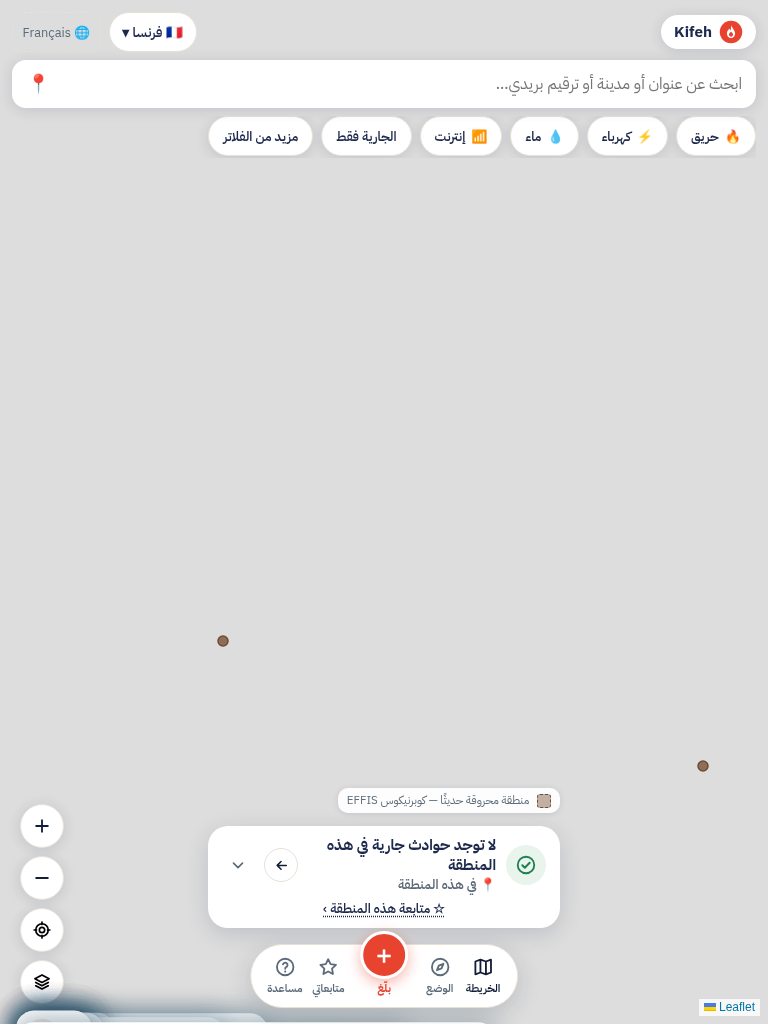
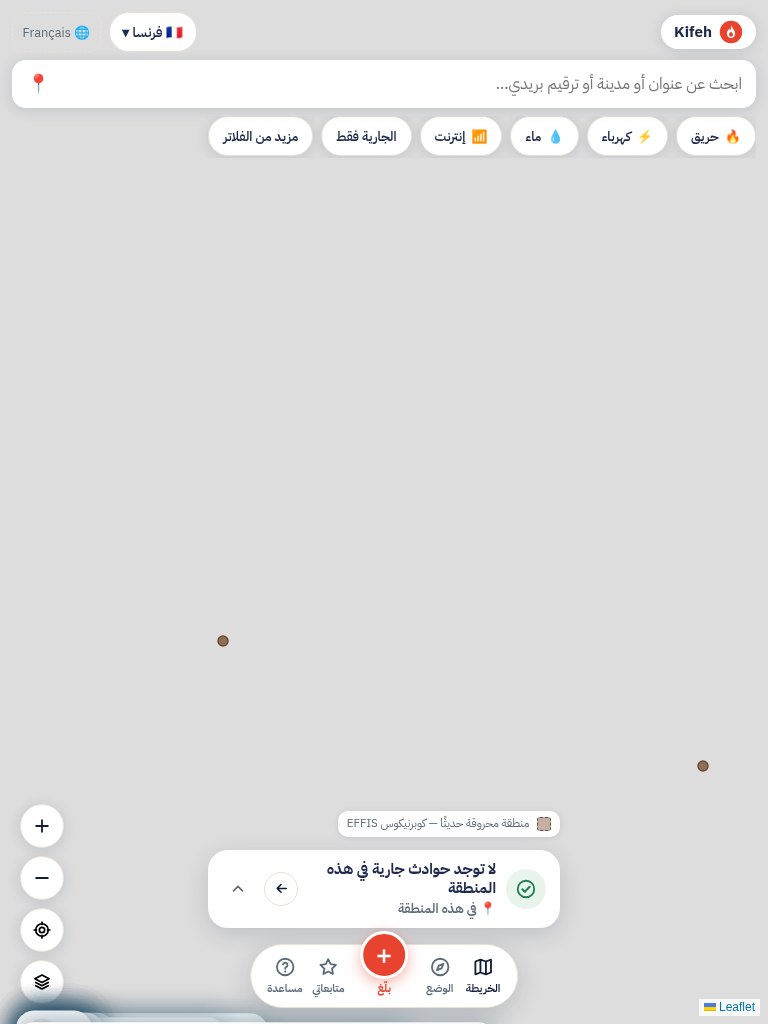
REVERT rail desktop (demande explicite Farah 31/07 soir) — retour à l'interface d'avant PR 2
- fire_desktop_rail_enabled → '0' (défaut + migration 3j à marqueur unique
  pour la valeur semée) : la pilule basse desktop, la recherche pleine
  largeur et la carte de situation reviennent à l'identique.
- Annulation du « défaut intelligent » du héro (non déployé).
- Captures de marque restaurées sur l'interface d'origine.
- Prochaine itération desktop : MAQUETTES validées par Farah AVANT tout
  déploiement.

Claude-Session: https://claude.ai/code/session_01Xtj68HpNxhqV9w3jxL5u9R

Changed region(s): [[0.25, 0.75, 0.75, 0.9062]]

diff --git a/src/config.js b/src/config.js
@@ -194,8 +194,10 @@ export const defaultSettings = {
   // activation progressive après validation UI (master prévisions PR 8).
   fire_forecast_enabled_fr: '1',
   fire_forecast_enabled_tn: '1',
-  // Refonte PR 2 : composition desktop (rail + header compact + héro→bouton).
-  fire_desktop_rail_enabled: '1',
+  // Refonte PR 2 : composition desktop — ÉTEINTE le 31/07 au soir (retour
+  // Farah : « revert, le front est dégueulasse ») ; itération sur maquettes
+  // validées AVANT toute réactivation.
+  fire_desktop_rail_enabled: '0',
   // Vent : modèle Météo-France (AROME/ARPEGE) servi par Open-Meteo — libre,
   // sans clé. Fournisseur configurable (WIND_URL pour les tests/alternatives).
   wind_provider: 'arome_france_hd_openmeteo', // AROME France HD, EXPLICITE (jamais le mode auto),

diff --git a/src/migrations.js b/src/migrations.js
@@ -473,4 +473,13 @@ export function runMigrations(db) {
       WHERE key = 'dfci_public_display_enabled' AND value = '0'`).run();
     db.prepare(`INSERT OR IGNORE INTO settings(key, value) VALUES ('mig_dfci_public_rollout', '1')`).run();
   })();
+
+  // 3j. REVERT rail desktop (31/07 soir, demande explicite de Farah) :
+  // bascule unique du '1' semé quelques heures plus tôt vers '0'.
+  (() => {
+    const done = db.prepare(`SELECT 1 FROM settings WHERE key = 'mig_rail_revert_3107'`).get();
+    if (done) return;
+    db.prepare(`UPDATE settings SET value = '0' WHERE key = 'fire_desktop_rail_enabled' AND value = '1'`).run();
+    db.prepare(`INSERT OR IGNORE INTO settings(key, value) VALUES ('mig_rail_revert_3107', '1')`).run();
+  })();
 }
